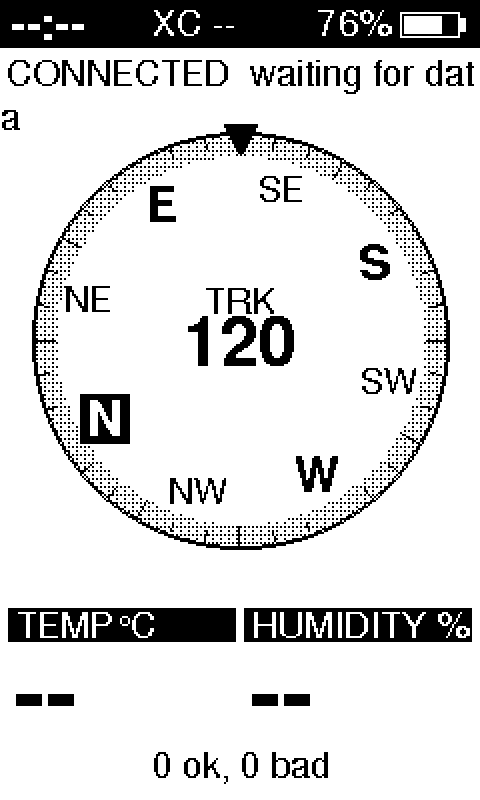
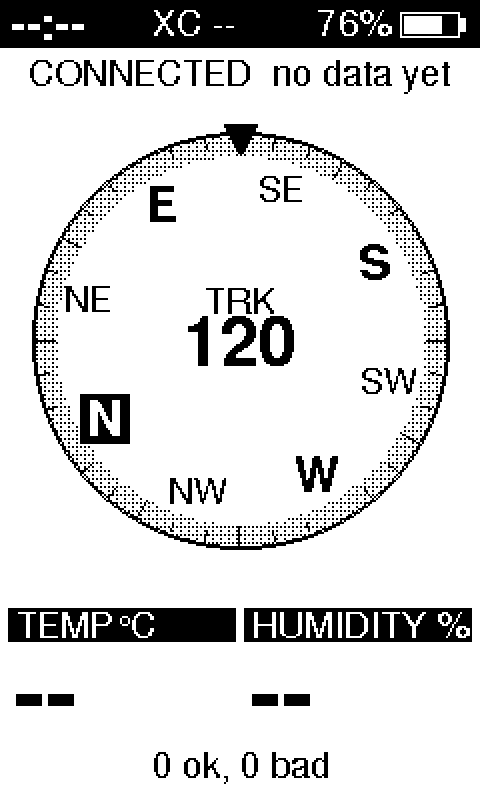
Status screen: 'no data yet' fits on one line

Changed region(s): [[0.0, 0.0625, 0.4062, 0.1562], [0.7188, 0.0625, 1.0, 0.125], [0.4375, 0.0625, 0.7188, 0.125]]

diff --git a/firmware/src/view/screens.cpp b/firmware/src/view/screens.cpp
@@ -314,7 +314,7 @@ static void drawStandalone(const ViewModel& vm, const Bitmap1* bm) {
   const char* title = vm.link == ViewModel::LINK_CONNECTED ? "CONNECTED"
                       : vm.link == ViewModel::LINK_CONNECTING ? "CONNECTING"
                       : vm.link == ViewModel::LINK_SEARCHING ? "SEARCHING" : "NO VARIO";
-  if (vm.link == ViewModel::LINK_CONNECTED) snprintf(top, sizeof top, "%s  waiting for data", title);
+  if (vm.link == ViewModel::LINK_CONNECTED) snprintf(top, sizeof top, "%s  no data yet", title);
   else if (vm.link == ViewModel::LINK_NONE) snprintf(top, sizeof top, "%s  hold: choose device", title);
   else if (vm.hasSaved) snprintf(top, sizeof top, "%s  %.14s", title, vm.device);
   else snprintf(top, sizeof top, "%s  filter: %.10s", title, vm.filter);
